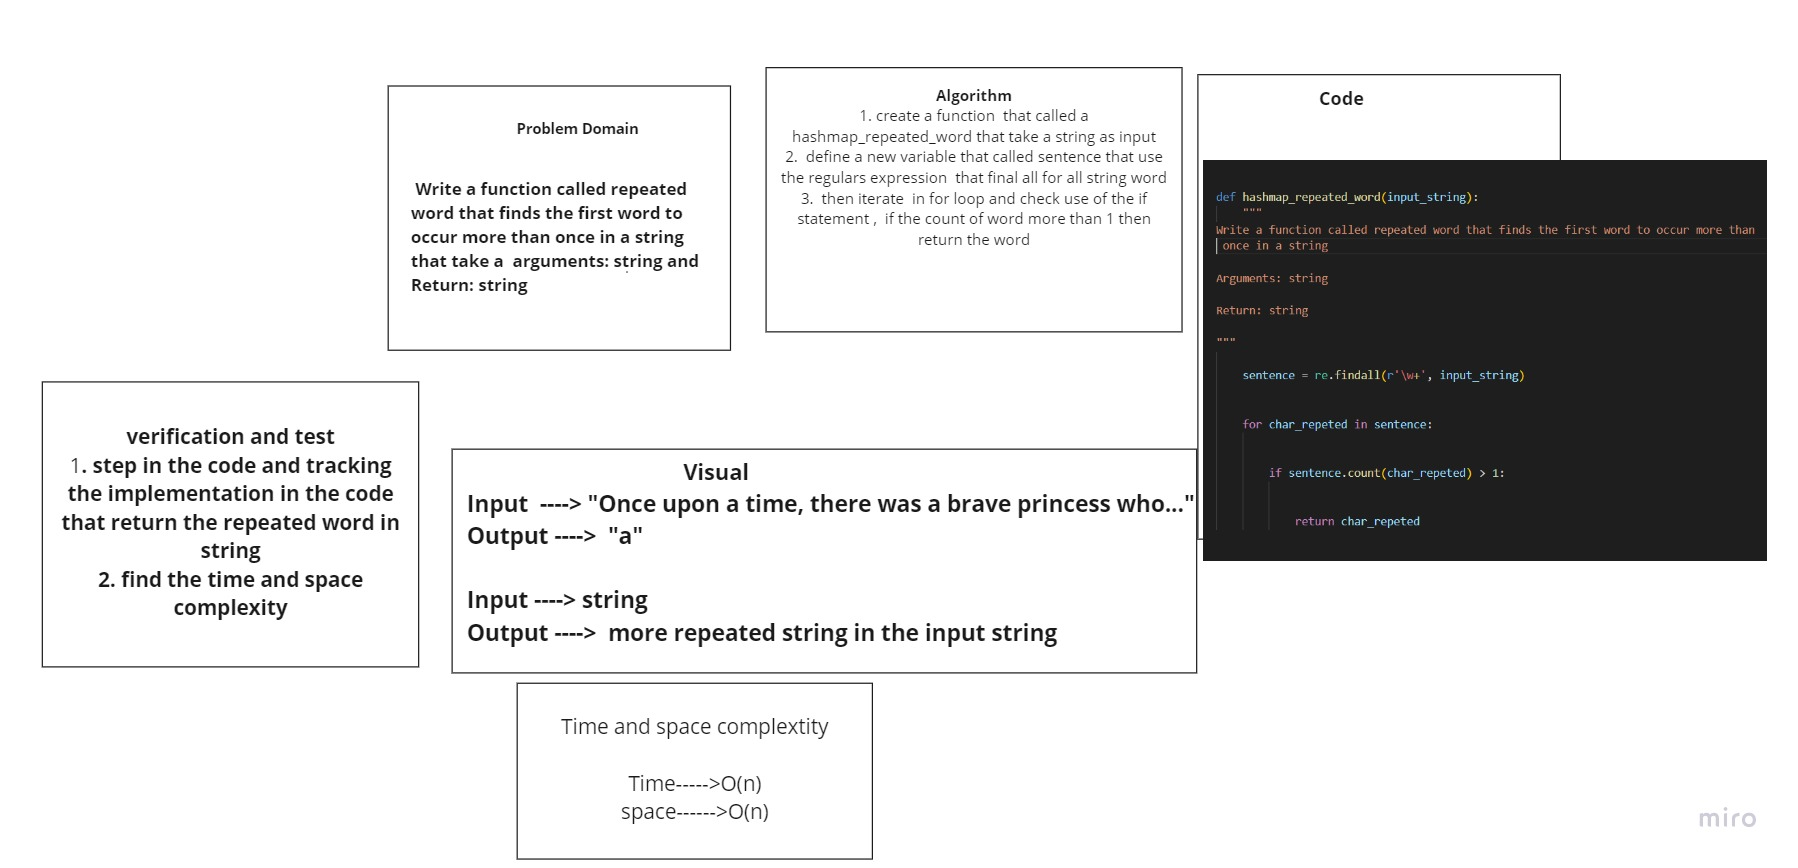
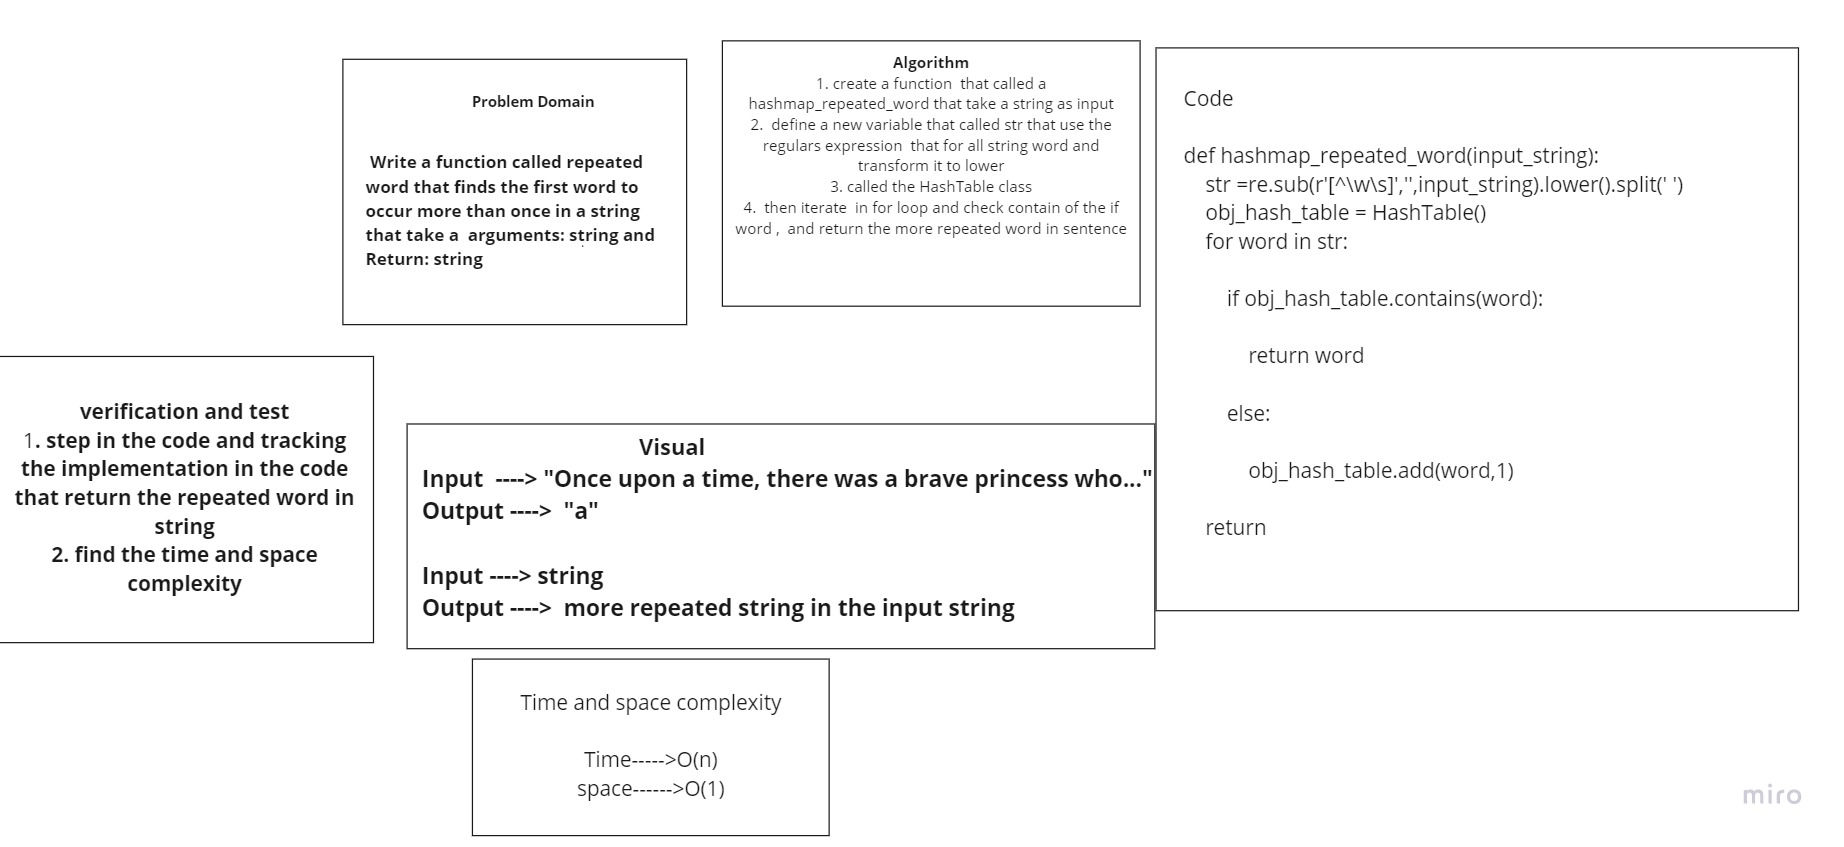
add the hash table

diff --git a/python/tests/test_hashmap_repeated_word.py b/python/tests/test_hashmap_repeated_word.py
@@ -1,4 +1,3 @@
-
 from code_challenges.hashmap_repeated_word.hashmap_repeated_word import hashmap_repeated_word
 
 
@@ -14,14 +13,13 @@ def test_2():
     input ="It was a queer, sultry summer, the summer they electrocuted the Rosenbergs, and I didn’t know what I was doing in New York..."
 
     real = hashmap_repeated_word(input)
-    expected=	"was"
+    expected=	"summer"
     assert real==expected
 
 
 
 def test_3():
     input ="It was the best of times, it was the worst of times, it was the age of wisdom, it was the age of foolishness, it was the epoch of belief, it was the epoch of incredulity, it was the season of Light, it was the season of Darkness, it was the spring of hope, it was the winter of despair, we had everything before us, we had nothing before us, we were all going direct to Heaven, we were all going direct the other way – in short, the period was so far like the present period, that some of its noisiest authorities insisted on its being received, for good or for evil, in the superlative degree of comparison only..."
-    real = hashmap_repeated_word(input.lower())
+    real = hashmap_repeated_word(input)
     expected=	"it"
     assert real==expected
-

diff --git a/python/code_challenges/hashmap_repeated_word/hashmap_repeated_word.py b/python/code_challenges/hashmap_repeated_word/hashmap_repeated_word.py
@@ -1,5 +1,4 @@
 """
-
 Write a function called repeated word that finds the first word to occur more than once in a string
 Arguments: string
 Return: string
@@ -121,19 +120,19 @@ Return: string
 
 """
 
+def hashmap_repeated_word(input_string):
+    procesed_string = re.sub(r'[^\w\s]','',input_string).lower().split(' ')
+    obj_hash_table = HashTable()
+    for word in procesed_string:
 
-    sentence = re.findall(r'\w+', input_string)
+        if obj_hash_table.contains(word):
 
+            return word
 
-    for char_repeted in sentence:
+        else:
 
-
-        if sentence.count(char_repeted) > 1:
-
-
-            return char_repeted
-
-
+            obj_hash_table.add(word,1)
+    return
 
 
 

diff --git a/python/code_challenges/hashmap_repeated_word/README.md b/python/code_challenges/hashmap_repeated_word/README.md
@@ -1,17 +1,18 @@
 # Challenge Summary
 <!-- Description of the challenge -->
-
 ## Write a function called repeated word that finds the first word to occur more than once in a string Arguments: string and Return: string
+
 ## Whiteboard Process
 <!-- Embedded whiteboard image -->
 ![hashmap_repeated_word](hashmap_repeated_word.jpg)
+
 ## Approach & Efficiency
 <!-- What approach did you take? Why? What is the Big O space/time for this approach? -->
 ## Time -->O(n)
-## Space -->O(n)
+## Space -->O(1)
 ## Solution
 <!-- Show how to run your code, and examples of it in action -->
 ## I am test the code and it work correctly
 ### Input ---> "Once upon a time, there was a brave princess who..."
 
-### Output ---> 	"a"
+### Output ---> "a"
